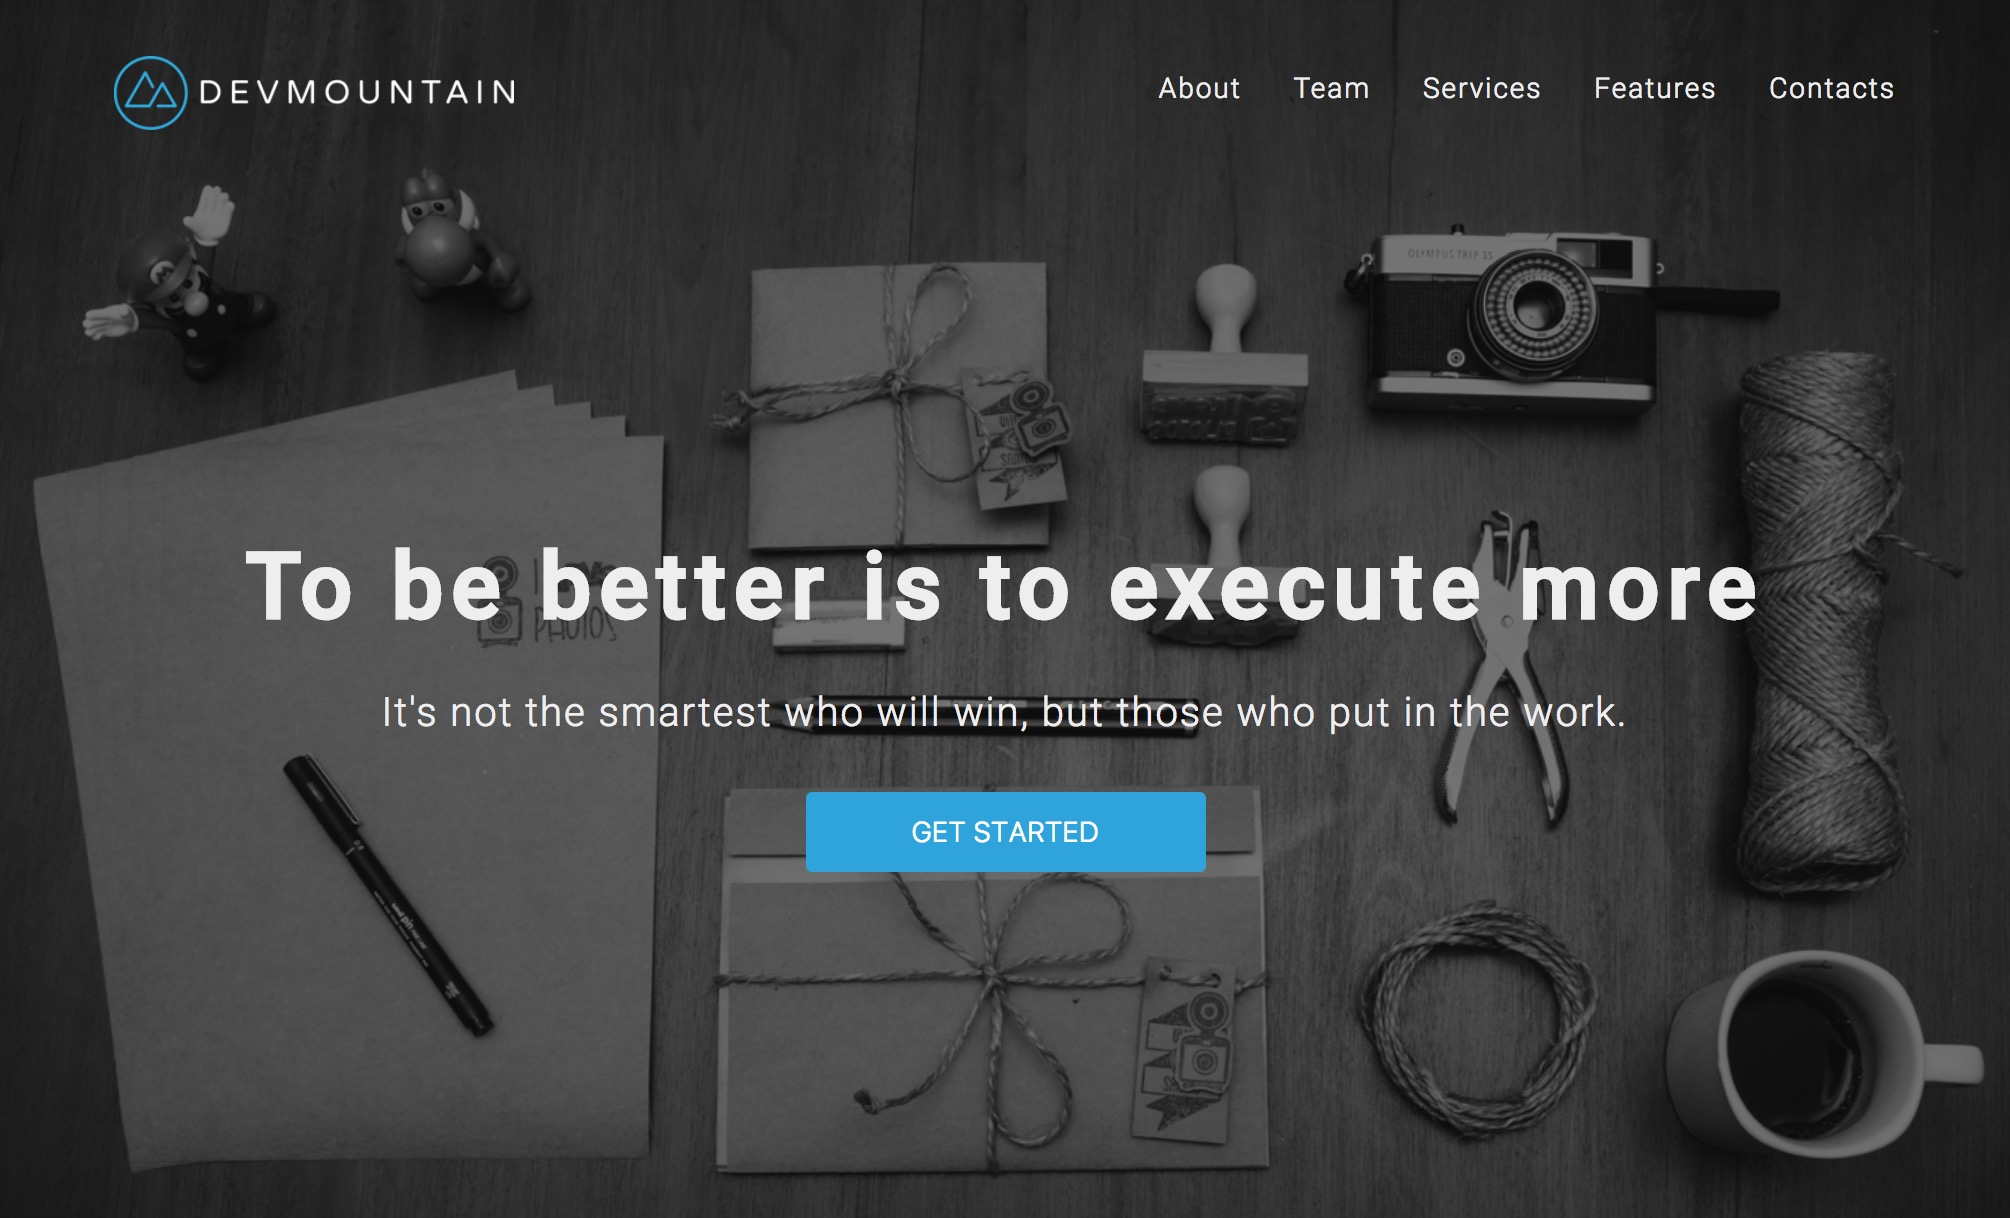
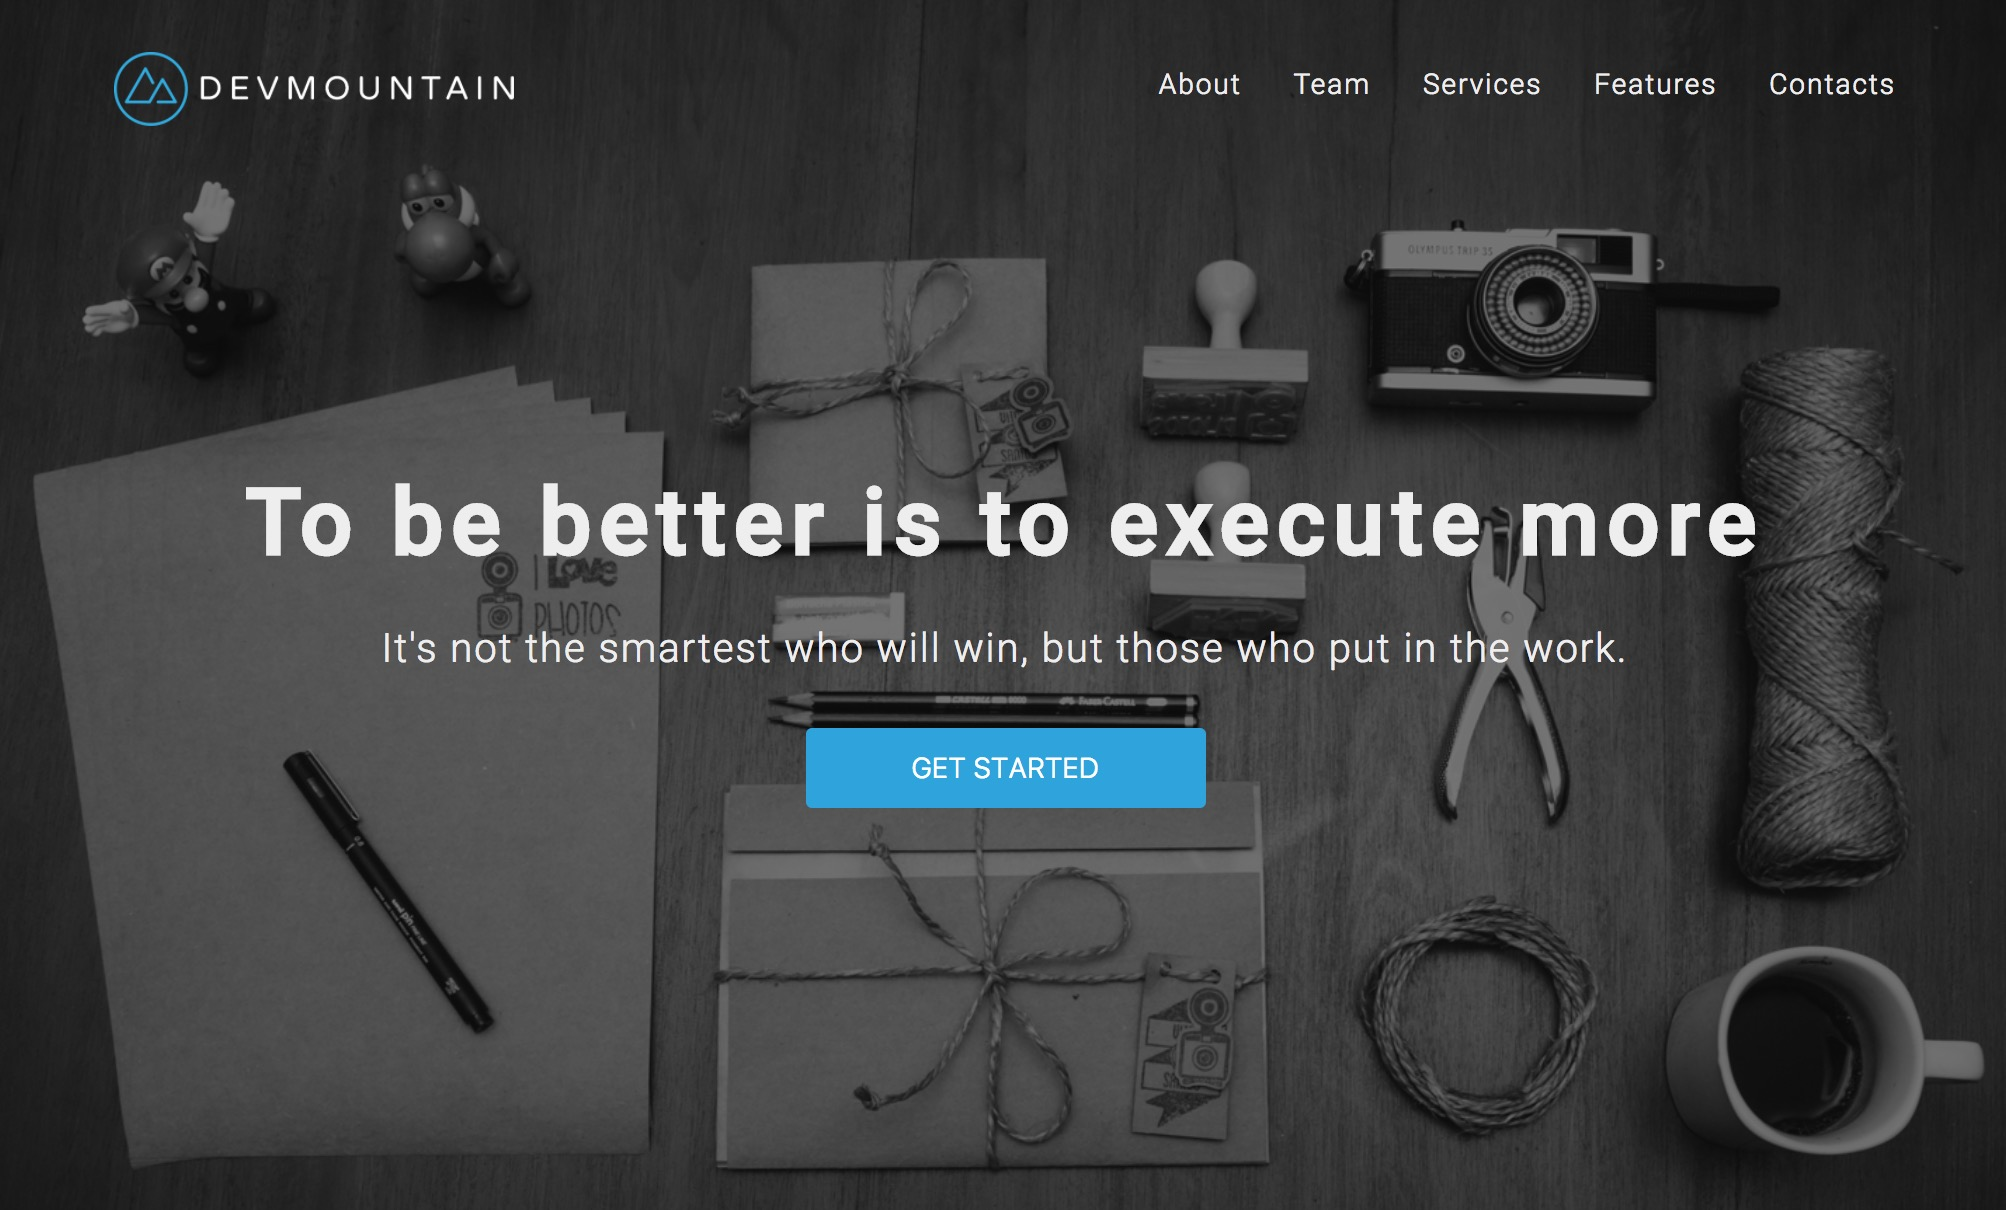
readme update

diff --git a/styles.css b/styles.css
@@ -32,7 +32,7 @@ h4 {
 .mainContent {
     color: #eee;
     text-align: center;
-    padding-top: 20%;
+    padding-top: 17%;
     font-weight: lighter;
 }
 
